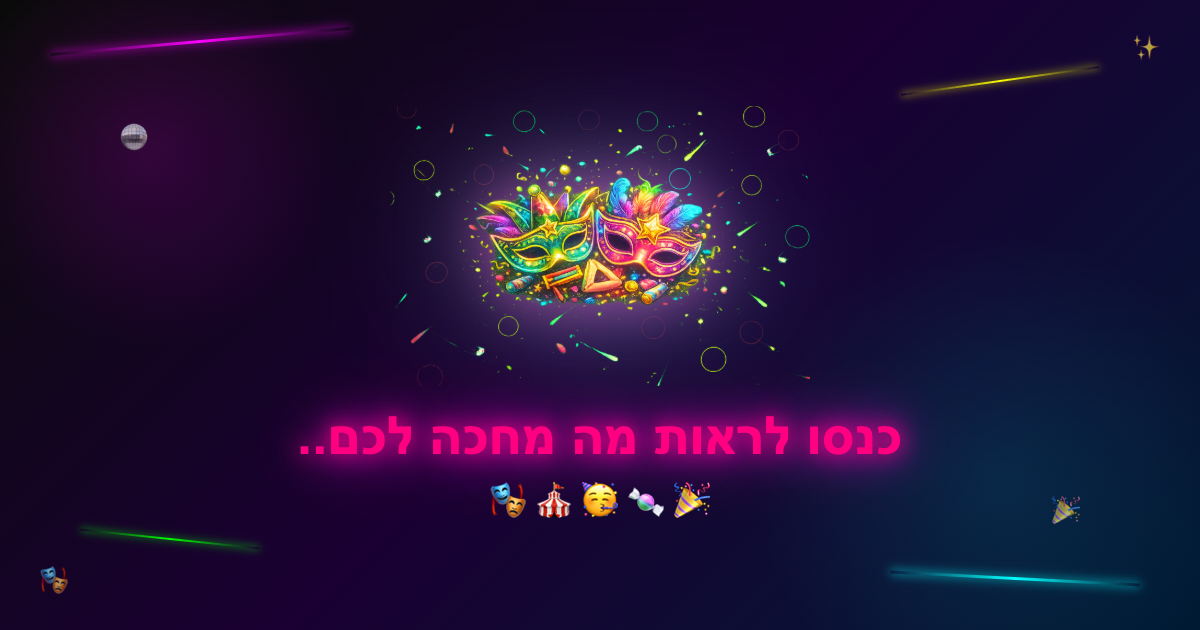
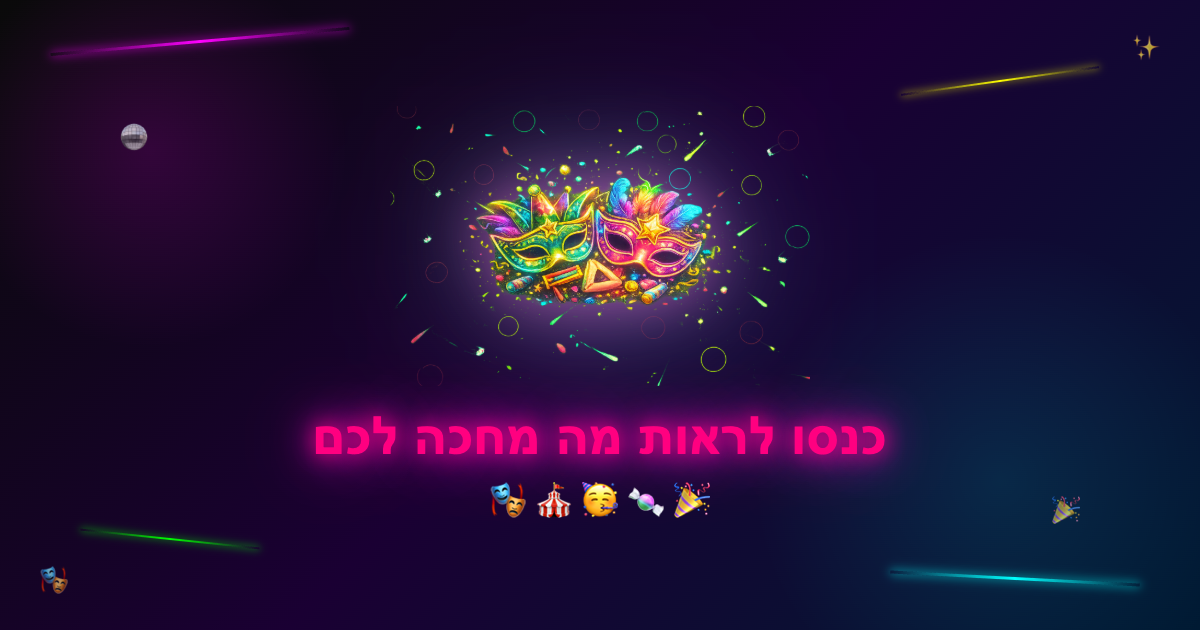
Remove dots from OG preview Hebrew text

Changed region(s): [[0.2467, 0.6333, 0.7708, 0.754]]

diff --git a/scripts/generate-og.html b/scripts/generate-og.html
@@ -130,7 +130,7 @@ body::after {
   <span class="sparkle s4">🎉</span>
 
   <img class="mask-img" src="mask.png" />
-  <div class="text">&#x202B;כנסו לראות מה מחכה לכם..&#x202C;</div>
+  <div class="text">כנסו לראות מה מחכה לכם</div>
   <div class="emoji-row">🎭 🎪 🥳 🍬 🎉</div>
 </body>
 </html>
